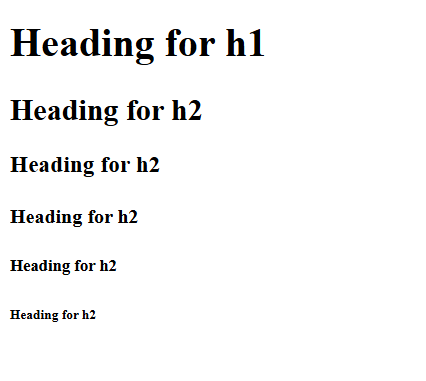
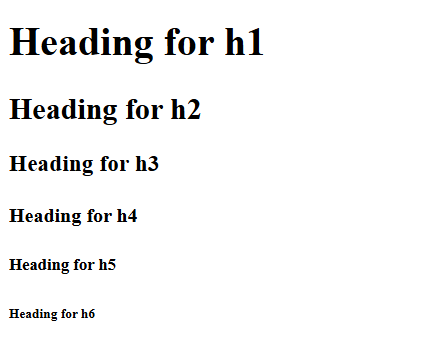
fixed

diff --git a/src/pages/Home.js b/src/pages/Home.js
@@ -12,6 +12,10 @@ const codeStringArrayForHTML = [
     "<body>\n" +
     "\t<h1>Heading for h1</h1>\n" +
     "\t<h2>Heading for h2</h2>\n" +
+    "\t<h3>Heading for h3</h3>\n" +
+    "\t<h4>Heading for h4</h4>\n" +
+    "\t<h5>Heading for h5</h5>\n" +
+    "\t<h6>Heading for h6</h6>\n" +
     "</body>\n" +
     "</html>"
 ]
@@ -42,6 +46,11 @@ class Home extends React.Component {
                     {
                         label: "HTML Heading",
                         value: "heading",
+                        selected: false,
+                    },
+                    {
+                        label: "HTML Formatting",
+                        value: "formatting",
                         selected: false,
                     },
                 ],
@@ -129,7 +138,7 @@ class Home extends React.Component {
                     </div>
                 </div>
                 <div
-                    className={`w-full fixed top-14 flex justify-center bg-secondary text-white font-bold h-7 border-t border-b border-solid border-primary`}>
+                    className={`w-full fixed top-14 z-10 flex justify-center bg-secondary text-white font-bold h-7 border-t border-b border-solid border-primary`}>
                     <div>IT Wisdom Network</div>
                 </div>
                 <div className={`md:hidden z-10 top-20 mt-14`}>
@@ -186,7 +195,7 @@ class Home extends React.Component {
                             }
                         </div>
                     </div>
-                    <div className={`w-full md:w-10/12 px-4 md:ml-[15%] md:mt-5 md:absolute md:px-10 text-black overflow-y-auto overflow-hidden`}>
+                    <div className={`w-full md:w-10/12 px-4 md:ml-[15%] md:mt-5 md:px-10 text-black overflow-y-auto`}>
                         {
                             selectedLanguage === "html" ?
                                 <>
@@ -204,7 +213,7 @@ class Home extends React.Component {
                                                         <iframe
                                                             src="https://www.youtube.com/embed/NLEHISMioQw?si=zW4VrRx7Rd4ju2s-"
                                                             title="How to install Sublime Text?"
-                                                            className={`w-full md:w-10/12 min-h-[40vh]`}
+                                                            className={`w-full md:w-10/12  min-h-[40vh] md:min-h-[60vh]`}
                                                             allow="accelerometer; autoplay; clipboard-write; encrypted-media; gyroscope; picture-in-picture; web-share"
                                                             referrerPolicy="strict-origin-when-cross-origin"
                                                             allowFullScreen></iframe>
@@ -215,7 +224,7 @@ class Home extends React.Component {
                                                             <iframe
                                                                 src="https://www.youtube.com/embed/1AqvGotyxWI?si=MrxHucop7hO9WCAT"
                                                                 title="How to use Sublime Text for HTML file?"
-                                                                className={`w-full md:w-10/12 min-h-[40vh]`}
+                                                                className={`w-full md:w-10/12 min-h-[40vh] md:min-h-[60vh]`}
                                                                 allow="accelerometer; autoplay; clipboard-write; encrypted-media; gyroscope; picture-in-picture; web-share"
                                                                 referrerPolicy="strict-origin-when-cross-origin"
                                                                 allowFullScreen></iframe>
@@ -226,7 +235,7 @@ class Home extends React.Component {
                                                                 <iframe
                                                                     src="https://www.youtube.com/embed/5C6EawooflQ?si=pOTS76STe3TsE9rm"
                                                                     title="Header"
-                                                                    className={`w-full md:w-10/12 min-h-[40vh]`}
+                                                                    className={`w-full md:w-10/12 min-h-[40vh] md:min-h-[60vh] z-0`}
                                                                     allow="accelerometer; autoplay; clipboard-write; encrypted-media; gyroscope; picture-in-picture; web-share"
                                                                     referrerPolicy="strict-origin-when-cross-origin"
                                                                     allowFullScreen></iframe>
@@ -256,7 +265,33 @@ class Home extends React.Component {
                                                                 </div>
                                                             </div>
                                                             :
-                                                            <div className={`text-center`}>Coming Soon...</div>
+                                                            selectedMenuTitle === "HTML Formatting" ?
+                                                                <div>
+                                                                    <div>{"<a> - link tab"}</div>
+                                                                    <h3>Formatting elements were designed to display
+                                                                        special types of text:</h3>
+                                                                    <ul className={`mb-4 list-item ml-5`} type={"square"}>
+                                                                        <li>{"<b> - Bold text"}</li>
+                                                                        <li>{"<strong> - Important text"}</li>
+                                                                        <li>{"<i> - Italic text"}</li>
+                                                                        <li>{"<em> - Emphasized text"}</li>
+                                                                        <li>{"<mark> - Marked text"}</li>
+                                                                        <li>{"<small> - Smaller text"}</li>
+                                                                        <li>{"<del> - Deleted text"}</li>
+                                                                        <li>{"<ins> - Inserted text"}</li>
+                                                                        <li>{"<sub> - Subscript text"}</li>
+                                                                        <li>{"<sup> - Superscript text"}</li>
+                                                                    </ul>
+                                                                    <iframe
+                                                                        src="https://www.youtube.com/embed/yQceOLPxojA?si=rHGd_0Q28X2y59TG"
+                                                                        title="Formatting Elements"
+                                                                        className={`w-full md:w-10/12 min-h-[40vh] md:min-h-[60vh] z-0`}
+                                                                        allow="accelerometer; autoplay; clipboard-write; encrypted-media; gyroscope; picture-in-picture; web-share"
+                                                                        referrerPolicy="strict-origin-when-cross-origin"
+                                                                        allowFullScreen></iframe>
+                                                                </div>
+                                                                :
+                                                                <div className={`text-center`}>Coming Soon...</div>
                                         }
                                     </>
                                 </>
